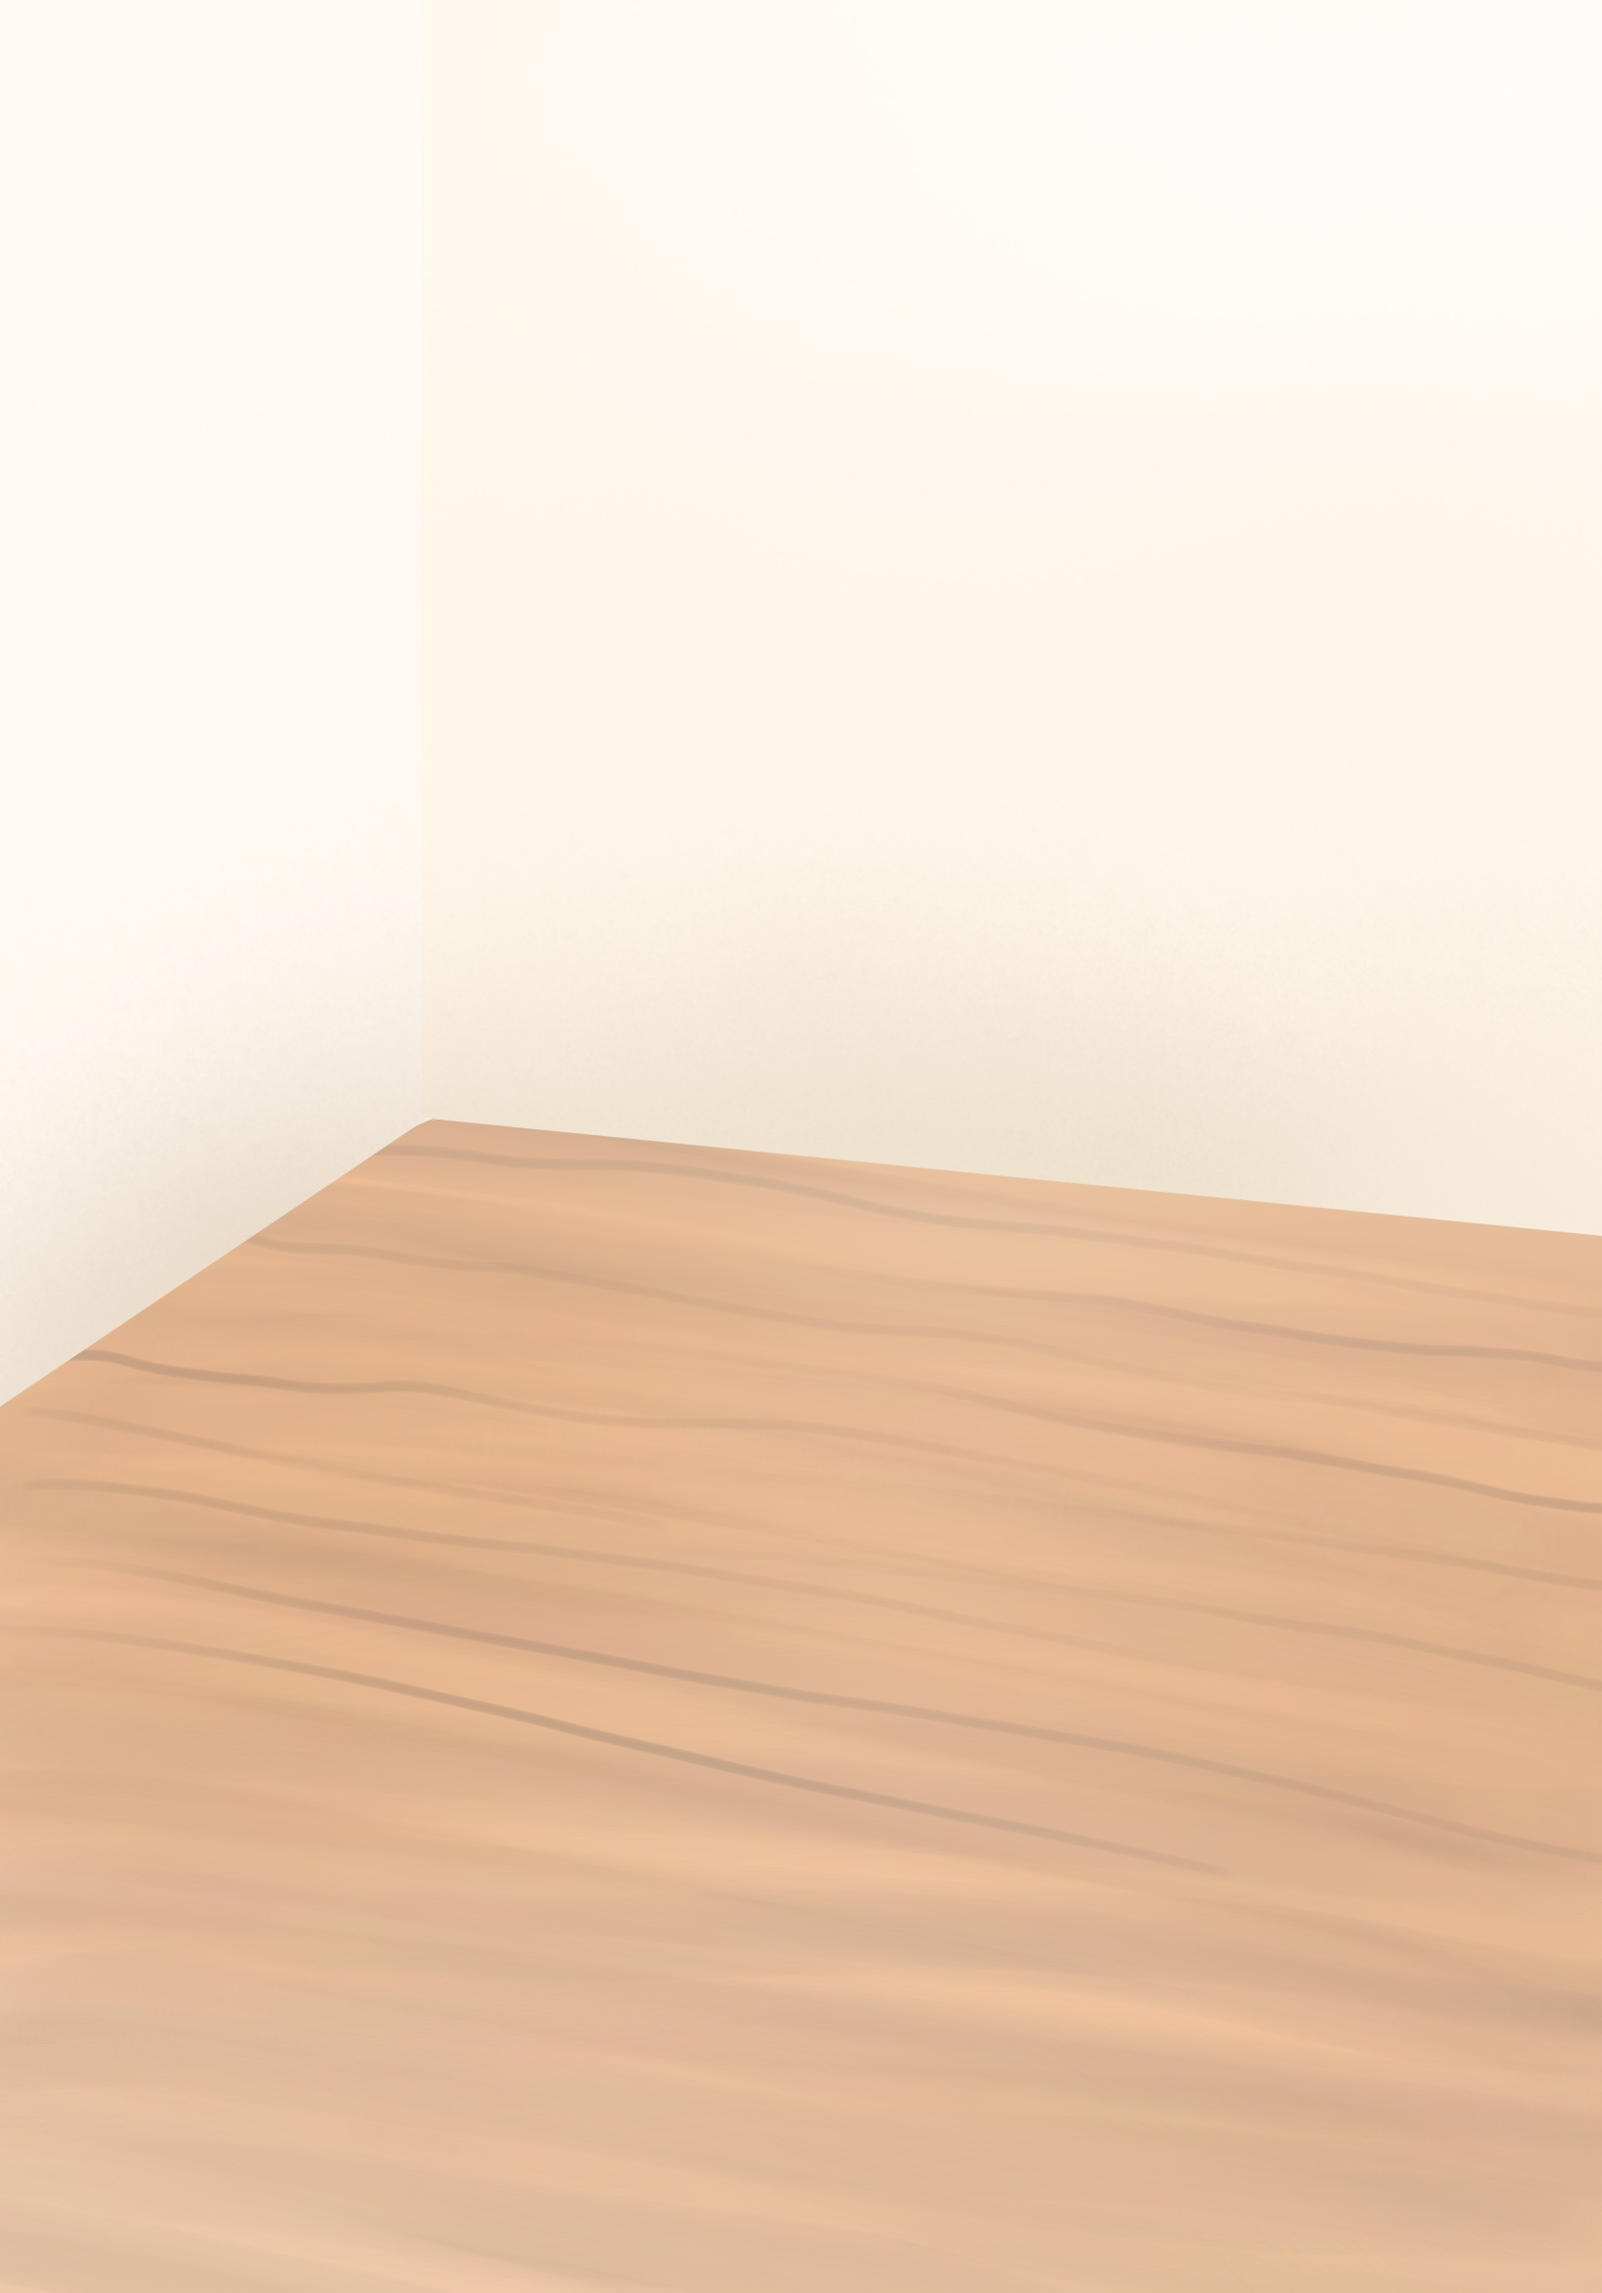
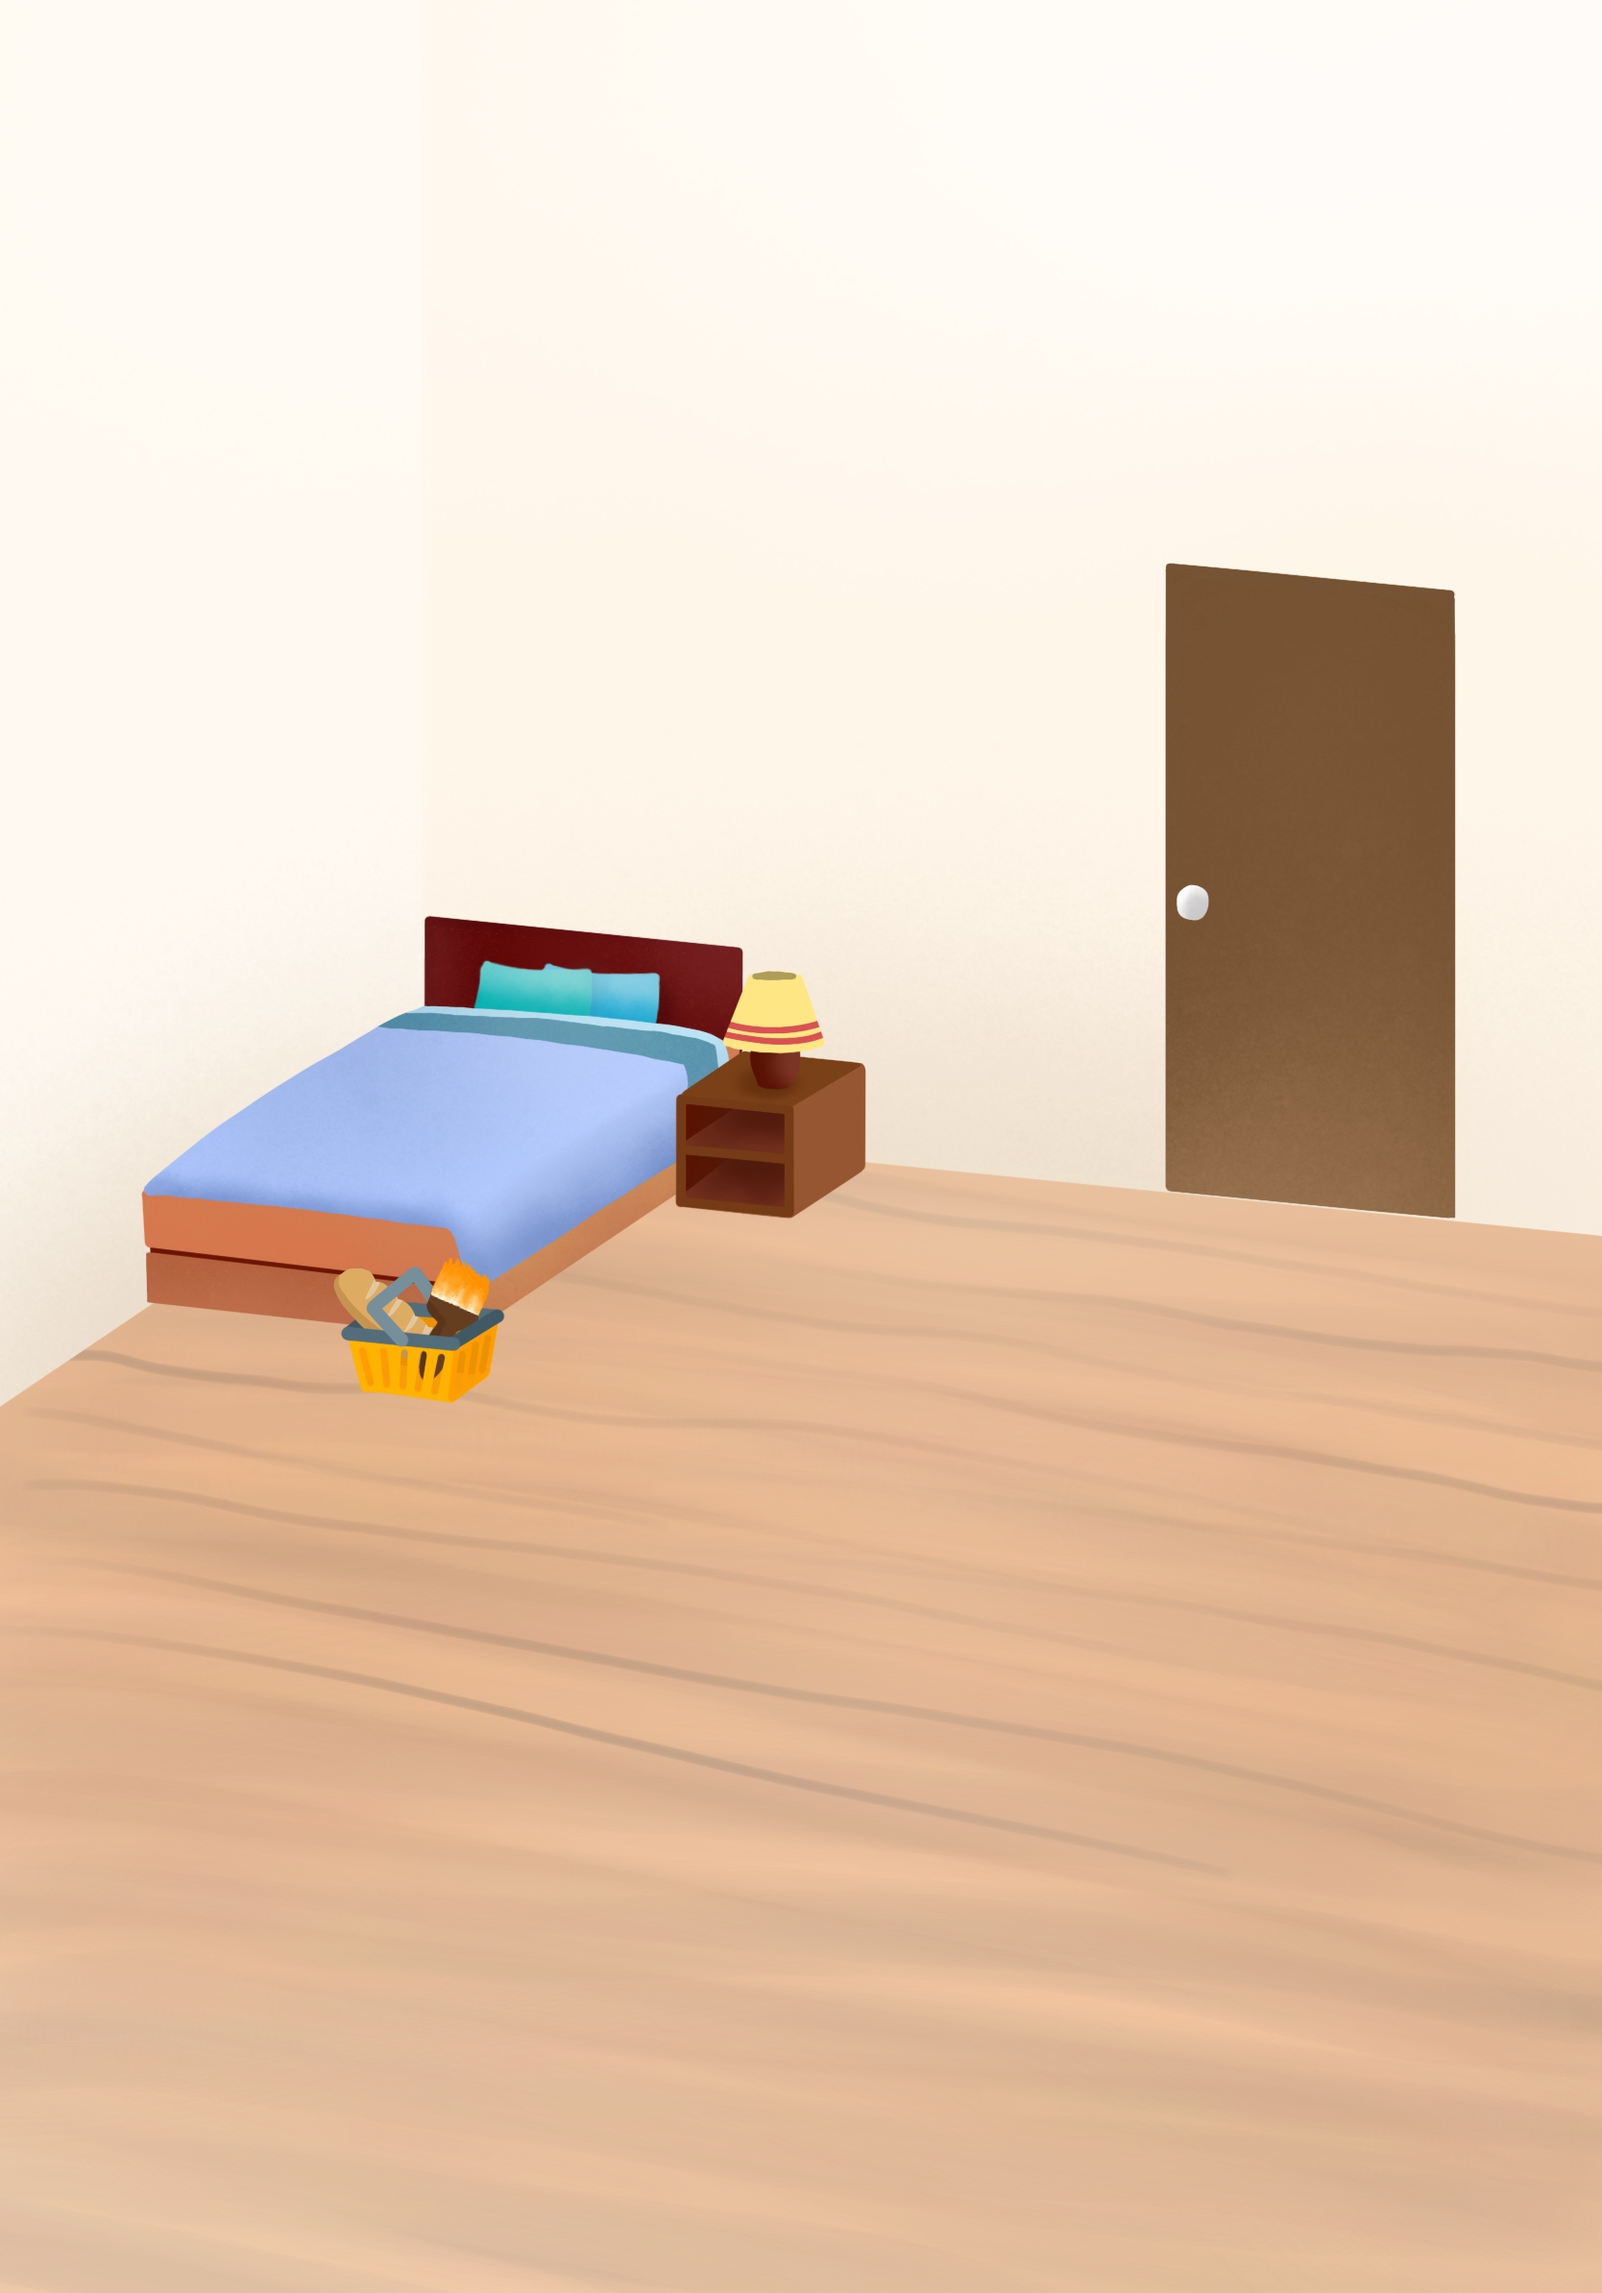
final

Changed region(s): [[0.0935, 0.4028, 0.5612, 0.6198], [0.717, 0.2479, 0.9353, 0.5578]]

diff --git a/app/screens/MainScreen/Shop.js b/app/screens/MainScreen/Shop.js
@@ -1,41 +1,110 @@
 import React from 'react'
-import { ScrollView, View, Image, Text, Dimensions } from 'react-native'
+import { ScrollView, View, Image, Text, Dimensions, TouchableOpacity } from 'react-native'
 import BackButton from '../../components/BackButton'
+import * as firebase from 'firebase';
+import SI_money from '../../components/helpers/SI_money'
 
 export default class Shop extends React.Component {
+    state = {
+        money: null
+    }
+
+    componentDidMount() {
+        firebase.database().ref('/users/' + firebase.auth().currentUser.uid).on("value", async (snap) => {
+            this.setState({
+                money: snap.val().money,
+            })
+        })
+    }
+
+    buyBackground() {
+        firebase.database().ref('/users/' + firebase.auth().currentUser.uid).update({ backgroundPink: true, money: 150 })
+    }
+
+    backBackground() {
+        firebase.database().ref('/users/' + firebase.auth().currentUser.uid).update({ backgroundPink: false })
+    }
+
     render() {
         return (
             <View
                 style={{
                     paddingTop: Dimensions.get('window').width < 400 ? 40 : 68,
-                    paddingHorizontal: '8%',
                     backgroundColor: '#fff9f1',
                     height: Dimensions.get('window').height
                 }}
             >
 
-                {/* -------- Back Button -------- */}
-                <BackButton
-                    onPress={() => this.props.goBack()}
-                    style={{ marginLeft: 0 }}
-                />
+                <View style={{ flexDirection: 'row', alignItems: 'center', justifyContent: 'space-between', paddingHorizontal: 15 }}>
+                    {/* -------- Back Button -------- */}
+                    <BackButton
+                        onPress={() => this.props.goBack()}
+                        style={{ marginLeft: 0, width: 95 }}
+                    />
 
-                {/* -------- Title -------- */}
-                <Text style={{ fontSize: 24, marginTop: 30, fontWeight: 'bold', }}>SHOP</Text>
+                    {/* -------- Title -------- */}
+                    <Text style={{ fontSize: 20, fontWeight: 'bold', }}>SHOP</Text>
+
+                    <View style={{ width: 95, flexDirection: 'row', alignItems: 'center', justifyContent: 'flex-end' }}>
+                        <Image
+                            source={require('../../assets/icons/Coin.png')}
+                            style={{ width: 28, height: 28 }}
+                        />
+                        <View style={{ width: 5 }}></View>
+                        <Text style={{ fontSize: 16, color: '#000', fontWeight: 'bold' }}>{SI_money(this.state.money, 2)}</Text>
+                    </View>
+                </View>
+
+
 
                 {/* -------- Item Detail (Option) -------- */}
-                <View></View>
 
-                <ScrollView
-                    contentContainerStyle={{
-                        flexGrow: 1,
-                        alignItems: 'center',
-                        backgroundColor: 'transparent',
-                    }}
-                >
-                    <View></View>
-                </ScrollView>
+                <View style={{ marginTop: 35, marginLeft: 15 }}>
+                    <Text style={{ fontSize: 18, marginBottom: 10 }}>Background</Text>
+                    <ScrollView horizontal={true} showsHorizontalScrollIndicator={false}>
+                        <TouchableOpacity style={{ alignItems: 'center', marginRight: 15 }} onPress={ () => this.backBackground() }>
+                            <Image style={{ width: 100, height: 125, marginBottom: 10 }} source={require('../../assets/shop/House.jpg')} />
+                            <Text>owned</Text>
+                        </TouchableOpacity>
+                        <TouchableOpacity style={{ alignItems: 'center', marginRight: 15 }} onPress={ () => this.buyBackground() }>
+                            <Image style={{ width: 100, height: 125, marginBottom: 10 }} source={require('../../assets/shop/House-pink.jpg')} />
+                        <Text>350</Text>
+                        </TouchableOpacity>
+                    </ScrollView>
+
             </View>
+
+            <View style={{ marginTop: 35, marginLeft: 15 }}>
+                <Text style={{ fontSize: 18, marginBottom: 10 }}>Food</Text>
+                <ScrollView horizontal={true} showsHorizontalScrollIndicator={false}>
+                    <TouchableOpacity style={{ alignItems: 'center', marginRight: 15 }}>
+                        <Image style={{ width: 50, height: 50, marginBottom: 10 }} source={require('../../assets/shop/Chicken.png')} />
+                        <Text>35</Text>
+                    </TouchableOpacity>
+                    <TouchableOpacity style={{ alignItems: 'center', marginRight: 15 }}>
+                        <Image style={{ width: 50, height: 50, marginBottom: 10 }} source={require('../../assets/shop/Baguette.png')} />
+                        <Text>45</Text>
+                    </TouchableOpacity>
+                    <TouchableOpacity style={{ alignItems: 'center', marginRight: 15 }}>
+                        <Image style={{ width: 50, height: 50, marginBottom: 10 }} source={require('../../assets/shop/lobster.png')} />
+                        <Text>80</Text>
+                    </TouchableOpacity>
+                    <TouchableOpacity style={{ alignItems: 'center', marginRight: 15 }}>
+                        <Image style={{ width: 50, height: 50, marginBottom: 10 }} source={require('../../assets/shop/vegetable.png')} />
+                        <Text>55</Text>
+                    </TouchableOpacity>
+                    <TouchableOpacity style={{ alignItems: 'center', marginRight: 15 }}>
+                        <Image style={{ width: 50, height: 50, marginBottom: 10 }} source={require('../../assets/shop/pie.png')} />
+                        <Text>30</Text>
+                    </TouchableOpacity>
+                    <TouchableOpacity style={{ alignItems: 'center', marginRight: 15 }}>
+                        <Image style={{ width: 50, height: 50, marginBottom: 10 }} source={require('../../assets/shop/breakfast.png')} />
+                        <Text>105</Text>
+                    </TouchableOpacity>
+                </ScrollView>
+
+            </View>
+            </View >
 
         )
     }

diff --git a/app/screens/MainScreen/HomeBK.js b/app/screens/MainScreen/HomeBK.js
@@ -297,9 +297,9 @@ export default class Home extends React.Component {
     }
 
     setTranscription = async (data) => {
-        if (TranscriptToAction(data) != null){
+        if (TranscriptToAction(data) != null) {
             this.setState({
-                activity: 'reactVoice-'+TranscriptToAction(data),
+                activity: 'reactVoice-' + TranscriptToAction(data),
                 doingActivity: true,
             })
             setTimeout(() => {
@@ -311,11 +311,18 @@ export default class Home extends React.Component {
         }
     }
 
+    backgroundImage() {
+        firebase.database().ref('/users/' + firebase.auth().currentUser.uid + '/backgroundPink').once('value', (snap) => {
+            if (snap.val() == true) return 'pink'
+            else return 'normal'
+        })
+    }
+
     render() {
         return (
             <ImageBackground
                 style={styles.container}
-                source={require('../../assets/background/House.png')}
+                source={this.backgroundImage() == 'normal' ? require('../../assets/background/House.jpg') : require('../../assets/background/House-pink.jpg')}
             >
 
                 {/* -------- Behind Camera -------- */}
@@ -335,7 +342,7 @@ export default class Home extends React.Component {
 
                         {/* -------- Setting Icon -------- */}
                         <TouchableOpacity
-                            onPress={() => { 
+                            onPress={() => {
                                 this.props.toSetting()
                                 playSound(require('../../assets/sounds/click.wav'))
                             }}
@@ -431,9 +438,26 @@ export default class Home extends React.Component {
                             width: Dimensions.get('window').width / 7 * 2 + 50,
                             height: Dimensions.get('window').height / 10 + 40,
                             left: Dimensions.get('window').width / 6 - 60,
-                            top: Dimensions.get('window').height / 4 + 30
+                            top: Dimensions.get('window').height / 3 - 80
                         }}
                         onPress={() => this.sleeping()}
+                    >
+                    </TouchableOpacity>
+                    
+                   {/* -------- Shop Mapping Image -------- */}
+                   <TouchableOpacity
+                        style={{
+                            position: 'absolute',
+                            // borderWidth: 1,
+                            width: Dimensions.get('window').width / 6 * 2,
+                            height: Dimensions.get('window').height / 10 + 40,
+                            left: Dimensions.get('window').width / 6 - 60,
+                            top: Dimensions.get('window').height / 3 + 30
+                        }}
+                        onPress={() => {
+                            this.props.toShop()
+                            playSound(require('../../assets/sounds/door.wav'))
+                        }}
                     >
                     </TouchableOpacity>
 

diff --git a/app/components/SmileButton.js b/app/components/SmileButton.js
@@ -20,7 +20,7 @@ export default class SmileButton extends React.Component {
                         onPressOut={this.props.onPressOutSmile}
                     >
                         <Image
-                            style={{ width: 110, height: 110 }}
+                            style={{ width: 100, height: 100 }}
                             source={require('../assets/icons/smile.png')}
                         />
                     </TouchableOpacity>
@@ -46,6 +46,6 @@ const styles = StyleSheet.create({
         alignItems: 'center',
     },
     menuIcon: {
-        width: 110,
+        width: 100,
     },
 })

diff --git a/app/screens/MainScreen/index.js b/app/screens/MainScreen/index.js
@@ -27,6 +27,7 @@ export default class MainScreen extends React.Component {
                         toSetting={() => this.changeScreen('setting')}
                         toMap={() => this.changeScreen('map')}
                         toMinigame={() => this.changeScreen('minigame')}
+                        toShop={() => this.changeScreen('shop')}
                     />
                 )
             case 'step':

diff --git a/app/components/helpers/initial_data.js b/app/components/helpers/initial_data.js
@@ -61,5 +61,7 @@ export default {
         ],
     tutorial: true,
     voiceLanguage: 'en-US',
-    voiceServerIP: ''
+    voiceServerIP: '',
+    background: 'normal',
+    backgroundPink: false
 }
